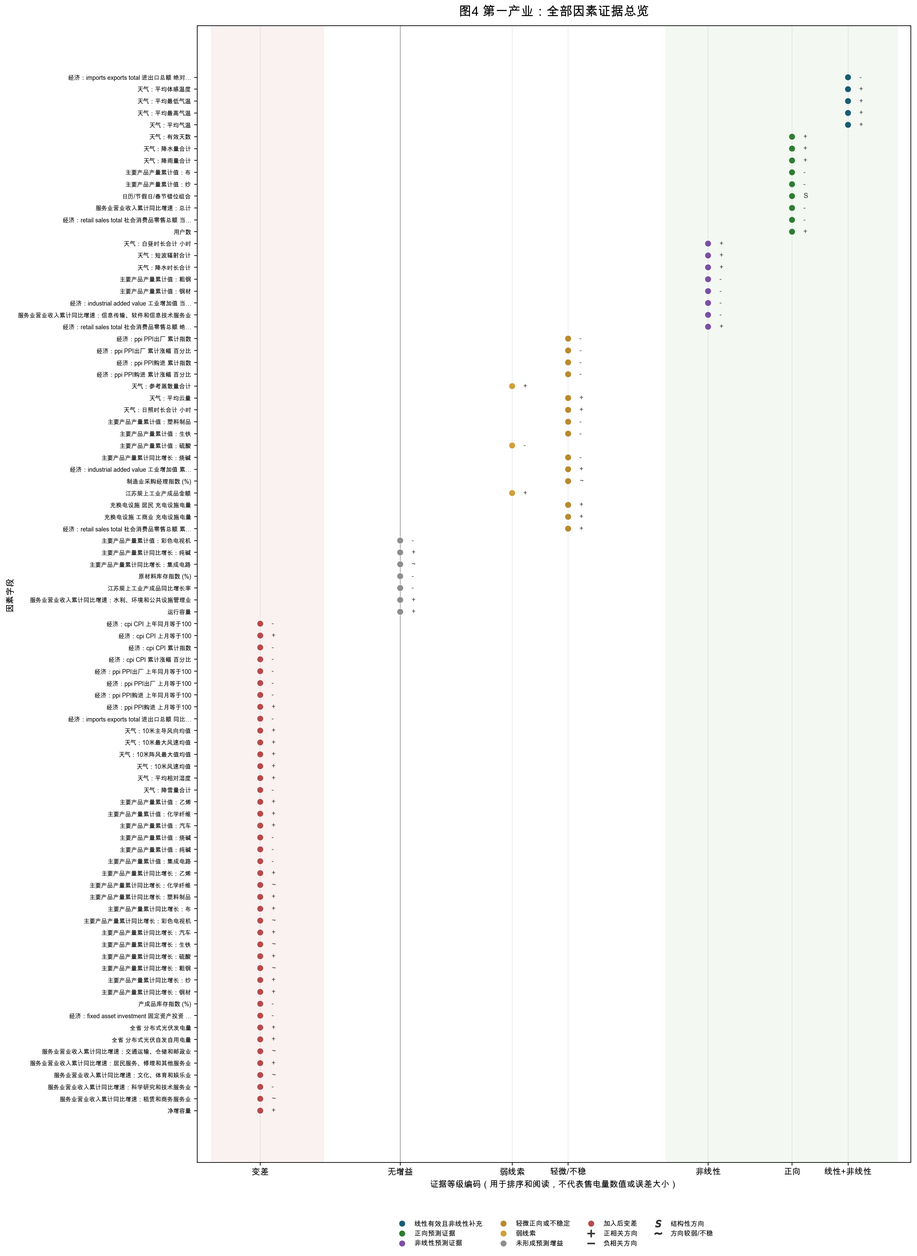
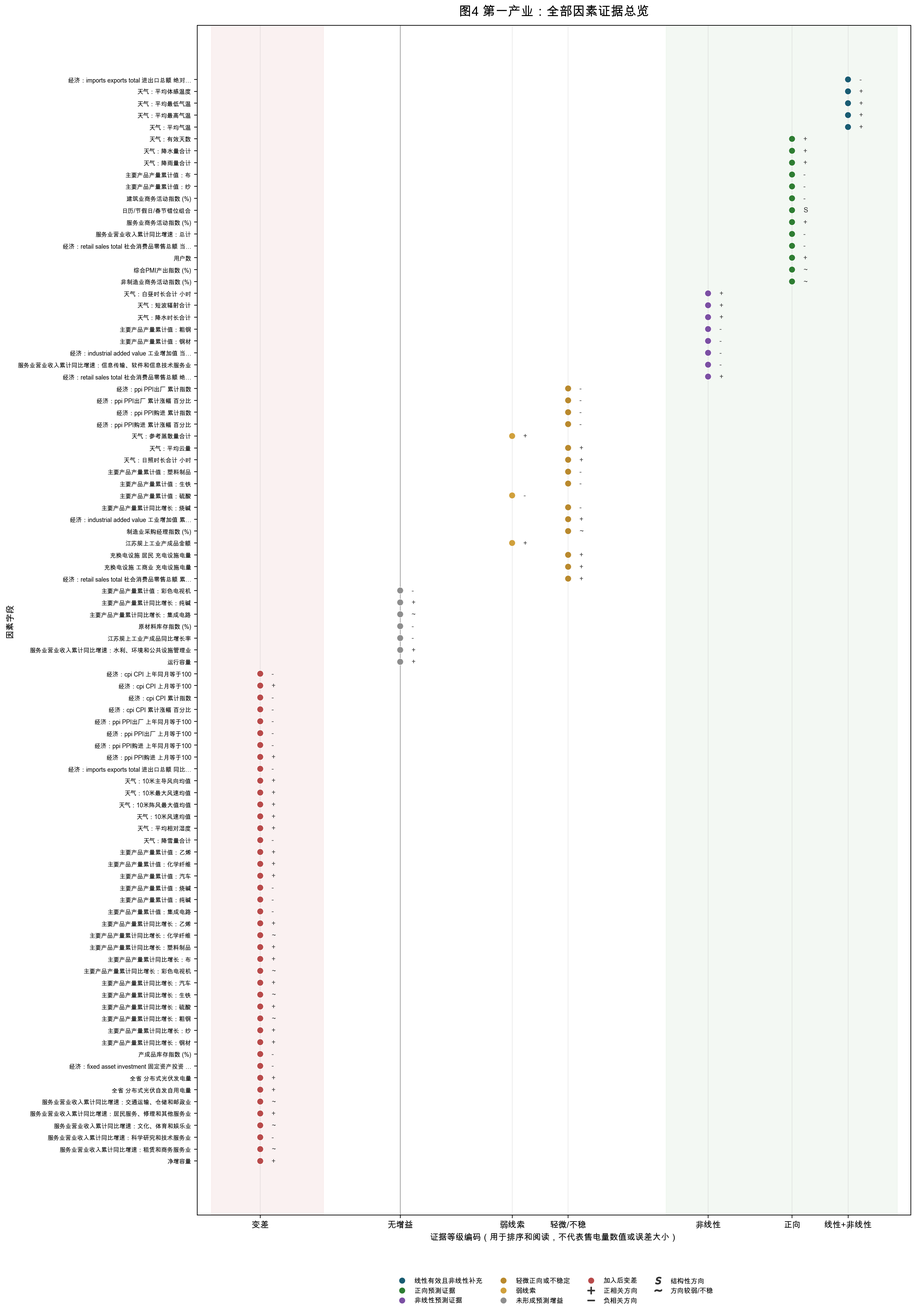
vault backup: 2026-05-25 17:36:13
Affected files:
Projects/Zheng/江苏月度售电量/因素分析/attachments/integrated_001_target_evidence_distribution.png
Projects/Zheng/江苏月度售电量/因素分析/attachments/integrated_002_candidate_theme_heatmap.png
Projects/Zheng/江苏月度售电量/因素分析/attachments/integrated_010_total_factor_evidence_overview.png
Projects/Zheng/江苏月度售电量/因素分析/attachments/integrated_011_primary_industry_factor_evidence_overview.png
Projects/Zheng/江苏月度售电量/因素分析/attachments/integrated_012_secondary_industry_factor_evidence_overview.png
Projects/Zheng/江苏月度售电量/因素分析/attachments/integrated_013_tertiary_industry_factor_evidence_overview.png
Projects/Zheng/江苏月度售电量/因素分析/attachments/integrated_014_residential_factor_evidence_overview.png
Projects/Zheng/江苏月度售电量/因素分析/factor-target-integrated-report-v1.md

diff --git a/Projects/Zheng/江苏月度售电量/因素分析/factor-target-integrated-report-v1.md b/Projects/Zheng/江苏月度售电量/因素分析/factor-target-integrated-report-v1.md
@@ -23,7 +23,7 @@
 
 - `output/modeling/mvp/integrated_factor_target_evidence/factor_target_integrated_evidence_matrix.csv`
 
-本 Markdown 是面向汇总报告的摘要版：每个目标展示最值得解释的因素和典型边界；全量 440 条“目标 × 因素”记录以 CSV 矩阵保存，便于后续筛选、排序、重画图或入稿。
+本 Markdown 是面向汇总报告的摘要版：每个目标展示最值得解释的因素和典型边界；全量 460 条“目标 × 因素”记录以 CSV 矩阵保存，便于后续筛选、排序、重画图或入稿。
 
 ## 3. 全局图表
 
@@ -35,7 +35,7 @@
 
 ### 3.2 候选证据在因素主题上的分布
 
-这张图只统计已经形成“正向预测证据、线性有效且非线性补充、非线性预测证据”的因素。颜色越深，表示该目标层级下该主题中候选因素越多；它用于发现哪些目标更依赖天气、日历、工业产品产量、库存或其他公开外生变量。
+这张图只统计已经形成“正向预测证据、线性有效且非线性补充、非线性预测证据”的因素。颜色越深，表示该目标层级下该主题中候选因素越多；它用于发现哪些目标更依赖天气、日历、工业产品产量、库存、商务活动指数或其他公开外生变量。
 
 ![图2 候选预测证据主题热力图](attachments/integrated_002_candidate_theme_heatmap.png)
 
@@ -79,11 +79,11 @@
 - 主要产品产量累计同比增长：集成电路（工业产品产量）：轻微正向或不稳定；具体产品产量可作为对应制造行业生产强度代理变量，需保留产品名和单位。 边界：不同产品单位不同，累计值和累计同比不能混合，不能泛化为产品产量整体有效。
 - econ_industrial_added_value_工业增加值_当月同比_百分比（工业景气）：轻微正向或不稳定；工业增加值等指标反映工业生产景气，通常与第二产业售电具有较直接机制。 边界：公开经济数据存在发布时间和累计/同比口径限制，真实预测默认使用滞后项。
 - econ_industrial_added_value_工业增加值_累计同比_百分比（工业景气）：轻微正向或不稳定；工业增加值等指标反映工业生产景气，通常与第二产业售电具有较直接机制。 边界：公开经济数据存在发布时间和累计/同比口径限制，真实预测默认使用滞后项。
-- econ_retail_sales_total_社会消费品零售总额_当月同比_百分比（消费景气）：轻微正向或不稳定；社零反映消费和商业活动，可能影响第三产业、居民消费场景和消费品制造。 边界：公开经济数据存在发布时间和累计/同比口径限制，真实预测默认使用滞后项。
+- 建筑业商务活动指数 (%)（建筑业景气）：轻微正向或不稳定；建筑业商务活动指数反映施工、基建、房地产和相关供应链活动景气，可能与第二产业、第三产业和居民侧用电存在间接联动。 边界：国家数据月度景气指数需按单指标解释；真实预测默认使用滞后或发布日期截断，不能写成 PMI 家族整体结论。
 
 #### 当前不宜作为主输入
 
-- 当前未形成预测增益或加入后变差的因素主要集中在：工业产品产量 18 个；天气 13 个；价格/成本 11 个；服务业景气 8 个；新型负荷/分布式能源 4 个；库存/产销压力 3 个；工业景气/库存指数 2 个；外贸 1 个。
+- 当前未形成预测增益或加入后变差的因素主要集中在：工业产品产量 18 个；天气 13 个；价格/成本 11 个；服务业景气 9 个；新型负荷/分布式能源 4 个；库存/产销压力 3 个；工业景气/库存指数 2 个；外贸 1 个。
 - 这不等于这些因素理论上无用，只表示当前样本、滞后口径和模型下没有形成稳定预测辅助价值。
 - 例子：econ_cpi_CPI_上年同月等于100、econ_cpi_CPI_累计指数、econ_cpi_CPI_累计涨幅_百分比、econ_ppi_PPI出厂_上年同月等于100、econ_ppi_PPI出厂_上月等于100、econ_ppi_PPI出厂_累计指数、econ_ppi_PPI出厂_累计涨幅_百分比、econ_ppi_PPI购进_上年同月等于100。
 
@@ -109,14 +109,14 @@
 | weather_avg_降雨量合计 | 天气 | 正向预测证据 | 正相关倾向 | 降水和降雪影响灌溉、排涝、物流、施工和极端天气扰动，方向可能非线性。 | 当前多为滞后天气观测；真实预测需天气预报或预测时点可得气象信息。 |
 | 主要产品产量累计值：布 | 工业产品产量 | 正向预测证据 | 负相关倾向 | 具体产品产量可作为对应制造行业生产强度代理变量，需保留产品名和单位。 | 不同产品单位不同，累计值和累计同比不能混合，不能泛化为产品产量整体有效。 |
 | 主要产品产量累计值：纱 | 工业产品产量 | 正向预测证据 | 负相关倾向 | 具体产品产量可作为对应制造行业生产强度代理变量，需保留产品名和单位。 | 不同产品单位不同，累计值和累计同比不能混合，不能泛化为产品产量整体有效。 |
+| 建筑业商务活动指数 (%) | 建筑业景气 | 正向预测证据 | 负相关倾向 | 建筑业商务活动指数反映施工、基建、房地产和相关供应链活动景气，可能与第二产业、第三产业和居民侧用电存在间接联动。 | 国家数据月度景气指数需按单指标解释；真实预测默认使用滞后或发布日期截断，不能写成 PMI 家族整体结论。 |
 | 日历/节假日/春节错位组合 | 日历/春节 | 正向预测证据 | 结构性影响，方向随工作日/节假日/春节位置变化 | 工作日、节假日和春节错位会改变生产开工、商业活动、居民出行与复工节奏。 | 预测时点已知；但不同产业方向可能不同，不能用同一方向解释所有目标。 |
+| 服务业商务活动指数 (%) | 服务业景气 | 正向预测证据 | 正相关倾向 | 服务业商务活动指数反映服务业景气、订单和业务活动扩张收缩，理论上更接近第三产业和居民消费场景。 | 国家数据月度景气指数需按单指标解释；真实预测默认使用滞后或发布日期截断，不能写成 PMI 家族整体结论。 |
 | 服务业营业收入累计同比增速：总计 | 服务业景气 | 正向预测证据 | 负相关倾向 | 服务业营业收入增速反映服务活动强弱，尤其适合解释第三产业和城市运行相关用电。 | 公开经济数据存在发布时间和累计/同比口径限制，真实预测默认使用滞后项。 |
 | econ_retail_sales_total_社会消费品零售总额_当月同比_百分比 | 消费景气 | 正向预测证据 | 负相关倾向 | 社零反映消费和商业活动，可能影响第三产业、居民消费场景和消费品制造。 | 公开经济数据存在发布时间和累计/同比口径限制，真实预测默认使用滞后项。 |
 | 用户数 | 用户/容量/业务规模 | 正向预测证据 | 正相关倾向 | 用户数和运行容量反映用电主体规模、接入容量和长期需求底座，但需确认预测时点可得性。 | 需确认预测时点可得性，避免同月统计或目标组成口径泄漏。 |
-| weather_avg_白昼时长合计_小时 | 天气 | 非线性预测证据 | 正相关倾向 | 光照、云量和辐射影响温度、照明、农业生产和分布式光伏出力。 | 当前多为滞后天气观测；真实预测需天气预报或预测时点可得气象信息。 |
-| weather_avg_短波辐射合计 | 天气 | 非线性预测证据 | 正相关倾向 | 光照、云量和辐射影响温度、照明、农业生产和分布式光伏出力。 | 当前多为滞后天气观测；真实预测需天气预报或预测时点可得气象信息。 |
-| weather_avg_降水时长合计 | 天气 | 非线性预测证据 | 正相关倾向 | 降水和降雪影响灌溉、排涝、物流、施工和极端天气扰动，方向可能非线性。 | 当前多为滞后天气观测；真实预测需天气预报或预测时点可得气象信息。 |
-| 主要产品产量累计值：粗钢 | 工业产品产量 | 非线性预测证据 | 负相关倾向 | 具体产品产量可作为对应制造行业生产强度代理变量，需保留产品名和单位。 | 不同产品单位不同，累计值和累计同比不能混合，不能泛化为产品产量整体有效。 |
+| 综合PMI产出指数 (%) | 综合产出景气 | 正向预测证据 | 弱相关，方向不稳 | 综合 PMI 产出指数反映制造业和非制造业总体产出景气，可作为宏观活动强弱的月度先行/同步指标。 | 国家数据月度景气指数需按单指标解释；真实预测默认使用滞后或发布日期截断，不能写成 PMI 家族整体结论。 |
+| 非制造业商务活动指数 (%) | 非制造业景气 | 正向预测证据 | 弱相关，方向不稳 | 非制造业商务活动指数综合反映服务业和建筑业等非制造部门景气，可能影响第三产业、建筑施工和城市运行用电。 | 国家数据月度景气指数需按单指标解释；真实预测默认使用滞后或发布日期截断，不能写成 PMI 家族整体结论。 |
 
 #### 弱线索/需要复核
 
@@ -158,6 +158,7 @@
 | 主要产品产量累计值：钢材 | 工业产品产量 | 正向预测证据 | 正相关倾向 | 具体产品产量可作为对应制造行业生产强度代理变量，需保留产品名和单位。 | 不同产品单位不同，累计值和累计同比不能混合，不能泛化为产品产量整体有效。 |
 | 主要产品产量累计值：集成电路 | 工业产品产量 | 正向预测证据 | 正相关倾向 | 具体产品产量可作为对应制造行业生产强度代理变量，需保留产品名和单位。 | 不同产品单位不同，累计值和累计同比不能混合，不能泛化为产品产量整体有效。 |
 | econ_industrial_added_value_工业增加值_当月同比_百分比 | 工业景气 | 正向预测证据 | 正相关倾向 | 工业增加值等指标反映工业生产景气，通常与第二产业售电具有较直接机制。 | 公开经济数据存在发布时间和累计/同比口径限制，真实预测默认使用滞后项。 |
+| 建筑业商务活动指数 (%) | 建筑业景气 | 正向预测证据 | 负相关倾向 | 建筑业商务活动指数反映施工、基建、房地产和相关供应链活动景气，可能与第二产业、第三产业和居民侧用电存在间接联动。 | 国家数据月度景气指数需按单指标解释；真实预测默认使用滞后或发布日期截断，不能写成 PMI 家族整体结论。 |
 | econ_fixed_asset_investment_固定资产投资_累计同比_百分比 | 投资 | 正向预测证据 | 负相关倾向 | 固定资产投资反映建设、设备购置、扩产和基础设施活动，对工业链条和未来容量有影响。 | 公开经济数据存在发布时间和累计/同比口径限制，真实预测默认使用滞后项。 |
 | 日历/节假日/春节错位组合 | 日历/春节 | 正向预测证据 | 结构性影响，方向随工作日/节假日/春节位置变化 | 工作日、节假日和春节错位会改变生产开工、商业活动、居民出行与复工节奏。 | 预测时点已知；但不同产业方向可能不同，不能用同一方向解释所有目标。 |
 | 服务业营业收入累计同比增速：交通运输、仓储和邮政业 | 服务业景气 | 正向预测证据 | 弱相关，方向不稳 | 服务业营业收入增速反映服务活动强弱，尤其适合解释第三产业和城市运行相关用电。 | 公开经济数据存在发布时间和累计/同比口径限制，真实预测默认使用滞后项。 |
@@ -166,7 +167,6 @@
 | econ_cpi_CPI_上年同月等于100 | 价格/成本 | 非线性预测证据 | 负相关倾向 | CPI/PPI 反映消费价格、工业品价格和成本压力，传导链条较长且方向可能不稳定。 | 公开经济数据存在发布时间和累计/同比口径限制，真实预测默认使用滞后项。 |
 | econ_cpi_CPI_累计指数 | 价格/成本 | 非线性预测证据 | 负相关倾向 | CPI/PPI 反映消费价格、工业品价格和成本压力，传导链条较长且方向可能不稳定。 | 公开经济数据存在发布时间和累计/同比口径限制，真实预测默认使用滞后项。 |
 | econ_cpi_CPI_累计涨幅_百分比 | 价格/成本 | 非线性预测证据 | 负相关倾向 | CPI/PPI 反映消费价格、工业品价格和成本压力，传导链条较长且方向可能不稳定。 | 公开经济数据存在发布时间和累计/同比口径限制，真实预测默认使用滞后项。 |
-| econ_imports_exports_total_进出口总额_同比_百分比 | 外贸 | 非线性预测证据 | 正相关倾向 | 进出口反映外贸订单、制造生产、港口物流、仓储和贸易服务活动。 | 公开经济数据存在发布时间和累计/同比口径限制，真实预测默认使用滞后项。 |
 
 #### 弱线索/需要复核
 
@@ -183,7 +183,7 @@
 
 #### 当前不宜作为主输入
 
-- 当前未形成预测增益或加入后变差的因素主要集中在：工业产品产量 17 个；天气 7 个；服务业景气 6 个；价格/成本 5 个；新型负荷/分布式能源 3 个；用户/容量/业务规模 3 个；工业景气/库存指数 2 个；工业景气 1 个。
+- 当前未形成预测增益或加入后变差的因素主要集中在：工业产品产量 17 个；天气 7 个；服务业景气 7 个；价格/成本 5 个；新型负荷/分布式能源 3 个；用户/容量/业务规模 3 个；工业景气/库存指数 2 个；工业景气 1 个。
 - 这不等于这些因素理论上无用，只表示当前样本、滞后口径和模型下没有形成稳定预测辅助价值。
 - 例子：econ_cpi_CPI_上月等于100、econ_ppi_PPI出厂_上年同月等于100、econ_ppi_PPI出厂_上月等于100、econ_ppi_PPI购进_上年同月等于100、econ_ppi_PPI购进_上月等于100、weather_avg_10米主导风向均值、weather_avg_10米最大风速均值、weather_avg_10米阵风最大值均值。
 
@@ -210,13 +210,13 @@
 | 主要产品产量累计同比增长：纯碱 | 工业产品产量 | 正向预测证据 | 正相关倾向 | 具体产品产量可作为对应制造行业生产强度代理变量，需保留产品名和单位。 | 不同产品单位不同，累计值和累计同比不能混合，不能泛化为产品产量整体有效。 |
 | econ_industrial_added_value_工业增加值_当月同比_百分比 | 工业景气 | 正向预测证据 | 负相关倾向 | 工业增加值等指标反映工业生产景气，通常与第二产业售电具有较直接机制。 | 公开经济数据存在发布时间和累计/同比口径限制，真实预测默认使用滞后项。 |
 | 制造业采购经理指数 (%) | 工业景气/库存指数 | 正向预测证据 | 负相关倾向 | 制造业 PMI 反映订单、采购、开工和生产预期，可作为制造业景气代理。 | 国家指标需按单指标解释；PMI、原材料库存、产成品库存不能合并成整体结论。 |
+| 建筑业商务活动指数 (%) | 建筑业景气 | 正向预测证据 | 负相关倾向 | 建筑业商务活动指数反映施工、基建、房地产和相关供应链活动景气，可能与第二产业、第三产业和居民侧用电存在间接联动。 | 国家数据月度景气指数需按单指标解释；真实预测默认使用滞后或发布日期截断，不能写成 PMI 家族整体结论。 |
 | 日历/节假日/春节错位组合 | 日历/春节 | 正向预测证据 | 结构性影响，方向随工作日/节假日/春节位置变化 | 工作日、节假日和春节错位会改变生产开工、商业活动、居民出行与复工节奏。 | 预测时点已知；但不同产业方向可能不同，不能用同一方向解释所有目标。 |
+| 服务业商务活动指数 (%) | 服务业景气 | 正向预测证据 | 弱相关，方向不稳 | 服务业商务活动指数反映服务业景气、订单和业务活动扩张收缩，理论上更接近第三产业和居民消费场景。 | 国家数据月度景气指数需按单指标解释；真实预测默认使用滞后或发布日期截断，不能写成 PMI 家族整体结论。 |
 | econ_retail_sales_total_社会消费品零售总额_当月同比_百分比 | 消费景气 | 正向预测证据 | 负相关倾向 | 社零反映消费和商业活动，可能影响第三产业、居民消费场景和消费品制造。 | 公开经济数据存在发布时间和累计/同比口径限制，真实预测默认使用滞后项。 |
 | 用户数 | 用户/容量/业务规模 | 正向预测证据 | 正相关倾向 | 用户数和运行容量反映用电主体规模、接入容量和长期需求底座，但需确认预测时点可得性。 | 需确认预测时点可得性，避免同月统计或目标组成口径泄漏。 |
-| weather_avg_平均体感温度 | 天气 | 非线性预测证据 | 正相关倾向 | 温度和体感温度影响制冷、采暖、厂房环境控制和农业生产条件，关系常呈 U 型或阈值型。 | 当前多为滞后天气观测；真实预测需天气预报或预测时点可得气象信息。 |
-| weather_avg_平均最高气温 | 天气 | 非线性预测证据 | 正相关倾向 | 温度和体感温度影响制冷、采暖、厂房环境控制和农业生产条件，关系常呈 U 型或阈值型。 | 当前多为滞后天气观测；真实预测需天气预报或预测时点可得气象信息。 |
-| weather_avg_平均气温 | 天气 | 非线性预测证据 | 正相关倾向 | 温度和体感温度影响制冷、采暖、厂房环境控制和农业生产条件，关系常呈 U 型或阈值型。 | 当前多为滞后天气观测；真实预测需天气预报或预测时点可得气象信息。 |
-| weather_avg_平均相对湿度 | 天气 | 非线性预测证据 | 正相关倾向 | 天气条件影响生活舒适度、生产环境、农业条件和极端天气扰动。 | 当前多为滞后天气观测；真实预测需天气预报或预测时点可得气象信息。 |
+| 综合PMI产出指数 (%) | 综合产出景气 | 正向预测证据 | 负相关倾向 | 综合 PMI 产出指数反映制造业和非制造业总体产出景气，可作为宏观活动强弱的月度先行/同步指标。 | 国家数据月度景气指数需按单指标解释；真实预测默认使用滞后或发布日期截断，不能写成 PMI 家族整体结论。 |
+| 非制造业商务活动指数 (%) | 非制造业景气 | 正向预测证据 | 弱相关，方向不稳 | 非制造业商务活动指数综合反映服务业和建筑业等非制造部门景气，可能影响第三产业、建筑施工和城市运行用电。 | 国家数据月度景气指数需按单指标解释；真实预测默认使用滞后或发布日期截断，不能写成 PMI 家族整体结论。 |
 
 #### 弱线索/需要复核
 
@@ -260,13 +260,13 @@
 | 原材料库存指数 (%) | 工业景气/库存指数 | 正向预测证据 | 负相关倾向 | 库存指数反映生产准备或产销压力，方向可能随库存周期变化。 | 国家指标需按单指标解释；PMI、原材料库存、产成品库存不能合并成整体结论。 |
 | 江苏规上工业产成品同比增长率 | 库存/产销压力 | 正向预测证据 | 负相关倾向 | 产成品金额、增长率或库存指数反映库存和产销压力，可能代表生产活跃或销售不畅。 | 金额、增长率和库存指数需分开解释，不能混成同一变量。 |
 | 江苏规上工业产成品金额 | 库存/产销压力 | 正向预测证据 | 正相关倾向 | 产成品金额、增长率或库存指数反映库存和产销压力，可能代表生产活跃或销售不畅。 | 金额、增长率和库存指数需分开解释，不能混成同一变量。 |
+| 建筑业商务活动指数 (%) | 建筑业景气 | 正向预测证据 | 负相关倾向 | 建筑业商务活动指数反映施工、基建、房地产和相关供应链活动景气，可能与第二产业、第三产业和居民侧用电存在间接联动。 | 国家数据月度景气指数需按单指标解释；真实预测默认使用滞后或发布日期截断，不能写成 PMI 家族整体结论。 |
 | 充换电设施_工商业_充电设施电量 | 新型负荷/分布式能源 | 正向预测证据 | 正相关倾向 | 充电设施电量代表新能源汽车和工商业交通电气化等新增用电场景。 | 需确认是否与售电目标存在组成关系；光伏和自发自用口径可能改变售电量方向。 |
 | 全省_分布式光伏发电量 | 新型负荷/分布式能源 | 正向预测证据 | 正相关倾向 | 分布式光伏和自发自用会改变用户侧购电、发电和售电统计口径，方向可能正负并存。 | 需确认是否与售电目标存在组成关系；光伏和自发自用口径可能改变售电量方向。 |
 | 全省_分布式光伏自发自用电量 | 新型负荷/分布式能源 | 正向预测证据 | 正相关倾向 | 分布式光伏和自发自用会改变用户侧购电、发电和售电统计口径，方向可能正负并存。 | 需确认是否与售电目标存在组成关系；光伏和自发自用口径可能改变售电量方向。 |
 | 服务业营业收入累计同比增速：信息传输、软件和信息技术服务业 | 服务业景气 | 正向预测证据 | 负相关倾向 | 服务业营业收入增速反映服务活动强弱，尤其适合解释第三产业和城市运行相关用电。 | 公开经济数据存在发布时间和累计/同比口径限制，真实预测默认使用滞后项。 |
 | econ_retail_sales_total_社会消费品零售总额_当月同比_百分比 | 消费景气 | 正向预测证据 | 负相关倾向 | 社零反映消费和商业活动，可能影响第三产业、居民消费场景和消费品制造。 | 公开经济数据存在发布时间和累计/同比口径限制，真实预测默认使用滞后项。 |
 | weather_avg_平均体感温度 | 天气 | 非线性预测证据 | 正相关倾向 | 温度和体感温度影响制冷、采暖、厂房环境控制和农业生产条件，关系常呈 U 型或阈值型。 | 当前多为滞后天气观测；真实预测需天气预报或预测时点可得气象信息。 |
-| weather_avg_平均最低气温 | 天气 | 非线性预测证据 | 正相关倾向 | 温度和体感温度影响制冷、采暖、厂房环境控制和农业生产条件，关系常呈 U 型或阈值型。 | 当前多为滞后天气观测；真实预测需天气预报或预测时点可得气象信息。 |
 
 #### 弱线索/需要复核
 
@@ -294,7 +294,7 @@
 - 经济因素必须逐字段解释：工业增加值、外贸、投资、社零、CPI/PPI 的机制不同，不能合并成经济因素整体有效或无效。
 - 用户数、运行容量等内部业务变量机制清楚，但需确认预测时点可得性和是否存在目标口径重叠。
 - 充电设施和分布式光伏是新型负荷/供需结构变量，业务价值高，但口径敏感。
-- PMI、库存、服务业收入、产品产量和产成品变量应与既有因素平等进入证据矩阵，不应作为附带材料。
+- 制造业 PMI、非制造业/服务业/建筑业商务活动指数、综合 PMI 产出指数、库存、服务业收入、产品产量和产成品变量应与既有因素平等进入证据矩阵，不应作为附带材料。
 
 ## 6. 代码来源
 
@@ -304,4 +304,6 @@
 - 日历结果：`output/modeling/mvp/d2_5_calendar_holiday_ablation/calendar_holiday_ablation_results.csv`
 - 公开外生变量结果：`output/modeling/mvp/d4_8_exogenous_gap_factor_analysis/d4_8_single_factor_comparison.csv`
 - 公开外生变量方向证据：`output/modeling/mvp/d4_8_exogenous_gap_factor_analysis/d4_8_correlation_lag_screen.csv`
+- 扩展公开景气指标结果：`output/modeling/mvp/d4_9_pmi_extended_factor_analysis/d4_9_single_factor_comparison.csv`
+- 扩展公开景气指标方向证据：`output/modeling/mvp/d4_9_pmi_extended_factor_analysis/d4_9_correlation_lag_screen.csv`
 - 图表索引：`output/modeling/mvp/integrated_factor_target_evidence/integrated_chart_review_index.csv`
